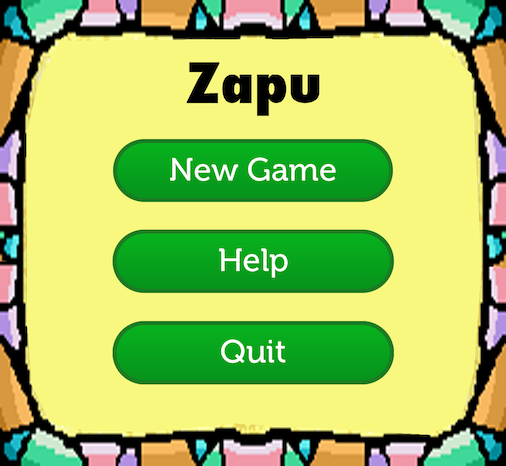
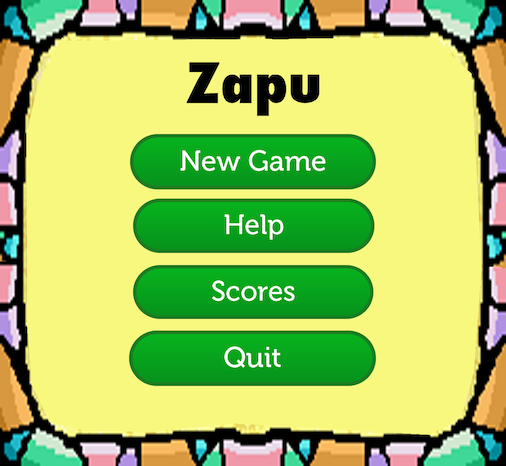
Added High scores UI close #31

Changed region(s): [[0.2075, 0.2704, 0.8004, 0.8412]]

diff --git a/mainwindow.cpp b/mainwindow.cpp
@@ -5,6 +5,7 @@
 #include <QtAlgorithms>
 #include <QFile>
 #include <string>
+#include <fstream>
 #include "mainchar.h"
 #include "bolt.h"
 #include "background.h"
@@ -115,7 +116,6 @@ void MainWindow::animate(){
         setLayout(layout);
         }
         else{
-        cout<<"HERE?\n";
         zapu->setVX(0);
         zapu->setVisible(true);
         zapu->setPixmap(*yoshi);
@@ -206,7 +206,6 @@ if(resetting == false){
    if(state == 5 && fObjects[i]->pos().x()>250){
      fObjects[i]->setPos(fObjects[i]->pos().x(), zapu->pos().y());
     if(count%800==0 && fObjects[i]->pos().y()<500){
-     cout<<"NEW FIRE BALL!\n";
      FireBall *f  = new FireBall(fire, fObjects[0]->pos().x(), fObjects[0]->pos().y()+5); 
      fObjects.push_back(f);
      scene->addItem(fObjects[fObjects.size()-1]);
@@ -373,19 +372,15 @@ if(resetting == false && timer->isActive()){
  *  @return nothing
  */
 void MainWindow::mousePressEvent(QMouseEvent *event){
- if(menus[5]->isVisible()){
+ if(menus[5]->isVisible() || menus[6]->isVisible()){
   menus[0]->setVisible(true);
   menus[5]->setVisible(false);
+  menus[6]->setVisible(false);
+  scoresList->setVisible(false);
  }
-if(event->pos().x() >= ((WINDOW_MAX_X/2)-141) && event->pos().x()<= (WINDOW_MAX_X/2)+141){
-   if(event->pos().y()>= 152 && event->pos().y() <= 216){
-    if(menus[1]->isVisible()){
-      menus[1]->setVisible(false);
-      menus[0]->setVisible(false);
-      zapu->setVX(0);
-      timer->start();
-     }
-     else if(menus[0]->isVisible()){
+else if(event->pos().x() >= ((WINDOW_MAX_X/2)-141) && event->pos().x()<= (WINDOW_MAX_X/2)+141){
+  if(menus[0]->isVisible()){
+   if(event->pos().y()>= 146 && event->pos().y() <= 202){
      menus[0]->setVisible(false);
      menus[3]->setVisible(true);
      nameBox = new QLineEdit();
@@ -396,6 +391,41 @@ if(event->pos().x() >= ((WINDOW_MAX_X/2)-141) && event->pos().x()<= (WINDOW_MAX_
      layout->addWidget(nameBox, 182, 168, 100, 250);
      setLayout(layout);
    }
+   else if(event->pos().y()>= 211 && event->pos().y() <= 267){
+     menus[0]->setVisible(false);
+     menus[5]->setVisible(true);
+   }
+   else if(event->pos().y()>= 276 && event->pos().y() <= 332){
+     menus[0]->setVisible(false);
+     menus[6]->setVisible(true);
+     scoresList->setVisible(true);
+     QStringList scores;
+     ifstream fin;
+     fin.open("HSList.txt");
+     if(fin.good()){
+      string line;
+      while(!fin.eof()){
+       getline(fin, line);
+       QString qline = QString::fromStdString(line);
+       scores<<qline;
+      }
+     }
+      model = new QStringListModel(scoresList);
+      model->setStringList(scores);
+      scoresList->setModel(model);
+      fin.close();
+   }
+   else if(event->pos().y()>= 341 && event->pos().y() <= 397){
+      qApp->quit();
+   }
+  }
+   if(event->pos().y()>= 152 && event->pos().y() <= 216){
+    if(menus[1]->isVisible()){
+      menus[1]->setVisible(false);
+      menus[0]->setVisible(false);
+      zapu->setVX(0);
+      timer->start();
+     }
   }
   else if(event->pos().y()>= 242 && event->pos().y() <= 306){
       if(menus[1]->isVisible() || menus[2]->isVisible()){
@@ -408,13 +438,9 @@ if(event->pos().x() >= ((WINDOW_MAX_X/2)-141) && event->pos().x()<= (WINDOW_MAX_
        menus[1]->setVisible(false);
        menus[2]->setVisible(false);
       }
-     else if(menus[0]->isVisible()){
-      menus[0]->setVisible(false);
-      menus[5]->setVisible(true);
-     }
   }
   else if(event->pos().y()>= 332 && event->pos().y() <= 396){
-   if(menus[0]->isVisible() || menus[1]->isVisible() || menus[2]->isVisible()){
+   if(menus[1]->isVisible() || menus[2]->isVisible()){
     qApp->quit();
     }
   }
@@ -635,7 +661,9 @@ void MainWindow::newGame(){
   }
  score[0]->setVisible(true);
 if(!timer->isActive()){
+  timer->setInterval(6);
   timer->start();
+  freq = 1.0;
  }
 }
 
@@ -681,6 +709,7 @@ MainWindow::MainWindow()  {
     nMenu = new QPixmap(qApp->applicationDirPath()+"/Pictures/NameMenu.png");
     error = new QPixmap(qApp->applicationDirPath()+"/Pictures/NameError.png");
     help = new QPixmap(qApp->applicationDirPath()+"/Pictures/Help.png");
+    hsMenu = new QPixmap(qApp->applicationDirPath()+"/Pictures/Scores.png");
         
     ground1 = new QPixmap(qApp->applicationDirPath() + "/Pictures/Ground1.png");
     ground16 = new QPixmap(qApp->applicationDirPath() + "/Pictures/Ground16.png");
@@ -715,6 +744,12 @@ MainWindow::MainWindow()  {
     view->setVerticalScrollBarPolicy(Qt::ScrollBarAlwaysOff);
     QWidget::setFocus();
     layout->addLayout(viewLayout, 0, 0, 506, 466);
+    
+    scoresList = new QListView();
+    scoresList->setMaximumWidth(150);
+    scoresList->setMaximumHeight(350);
+    scoresList->setVisible(false);
+    layout->addWidget(scoresList, 62, 164, 350, 150);
 
     QPixmap *ground = new QPixmap(qApp->applicationDirPath()+"/Pictures/Ground1.png");
    for(int i = 1; i<=12; i++){
@@ -741,6 +776,8 @@ MainWindow::MainWindow()  {
     menus.push_back(nError);
     UI *hMenu = new UI(help, 0, -418, false);
     menus.push_back(hMenu);
+    UI *menu5 = new UI(hsMenu, 0, -418, false);
+    menus.push_back(menu5);
     
     QPixmap *bwEgg;
     UI *uiItem, *num;

diff --git a/highscores.cpp b/highscores.cpp
@@ -12,18 +12,13 @@ HighScores::HighScores(){
   getline(fin, line);
    while(!fin.eof()){
     getline(fin, line);
-    cout<<"LINE: "<<line<<endl;
     stringstream ss(line);
     ss>>num;
-    cout<<"NUM: "<<num<<endl;
     getline(ss, line, ' ');
-    cout<<"P1A: "<<line<<endl;
     if(num < 10){
     getline(ss, line, ' ');
-    cout<<"P1B: "<<line<<endl;
     }
     getline(ss, line, ' ');
-    cout<<"P2:  "<<line<<endl;
     names.push_back(line);
     ss>>score;
     scores.push_back(score);
@@ -56,11 +51,9 @@ void HighScores::update(string name, int score){
   for(unsigned int j = 0; j<names.size(); j++){
    if(j<=8){
    fout<<endl<<left<<j+1<<".  "<<setw(12)<<names.at(j)<<" "<<scores.at(j);
-   cout<<endl<<left<<j+1<<".  "<<setw(12)<<names.at(j)<<" "<<scores.at(j);
    }
    else{
    fout<<endl<<left<<j+1<<". "<<setw(12)<<names.at(j)<<" "<<scores.at(j);
-   cout<<endl<<left<<j+1<<". "<<setw(12)<<names.at(j)<<" "<<scores.at(j);
    }
   }
 }

diff --git a/mainwindow.h b/mainwindow.h
@@ -2,6 +2,8 @@
 #define MAINWINDOW_H
 
 #include <QMainWindow>
+#include <QStringListModel>
+#include <QListView>
 #include <QWidget>
 #include <QLabel>
 #include <QGraphicsScene>
@@ -88,6 +90,10 @@ private:
     QGraphicsView *view;
     /** Text box where user types in his or her name */
     QLineEdit *nameBox;
+    /** Model that contains the high scores of the game */
+    QStringListModel *model;
+    /** List displaying high scores of the game */
+    QListView *scoresList;
     /** Displays score after all lives are lost */
     QLabel *scoreTxt;
     /** Displays name after all lives are lost */
@@ -151,6 +157,8 @@ private:
     QPixmap *error;
     /** Holds help menu */
     QPixmap *help;
+    /** Holds high score menu */
+    QPixmap *hsMenu;
     
     HighScores *hs;
     
